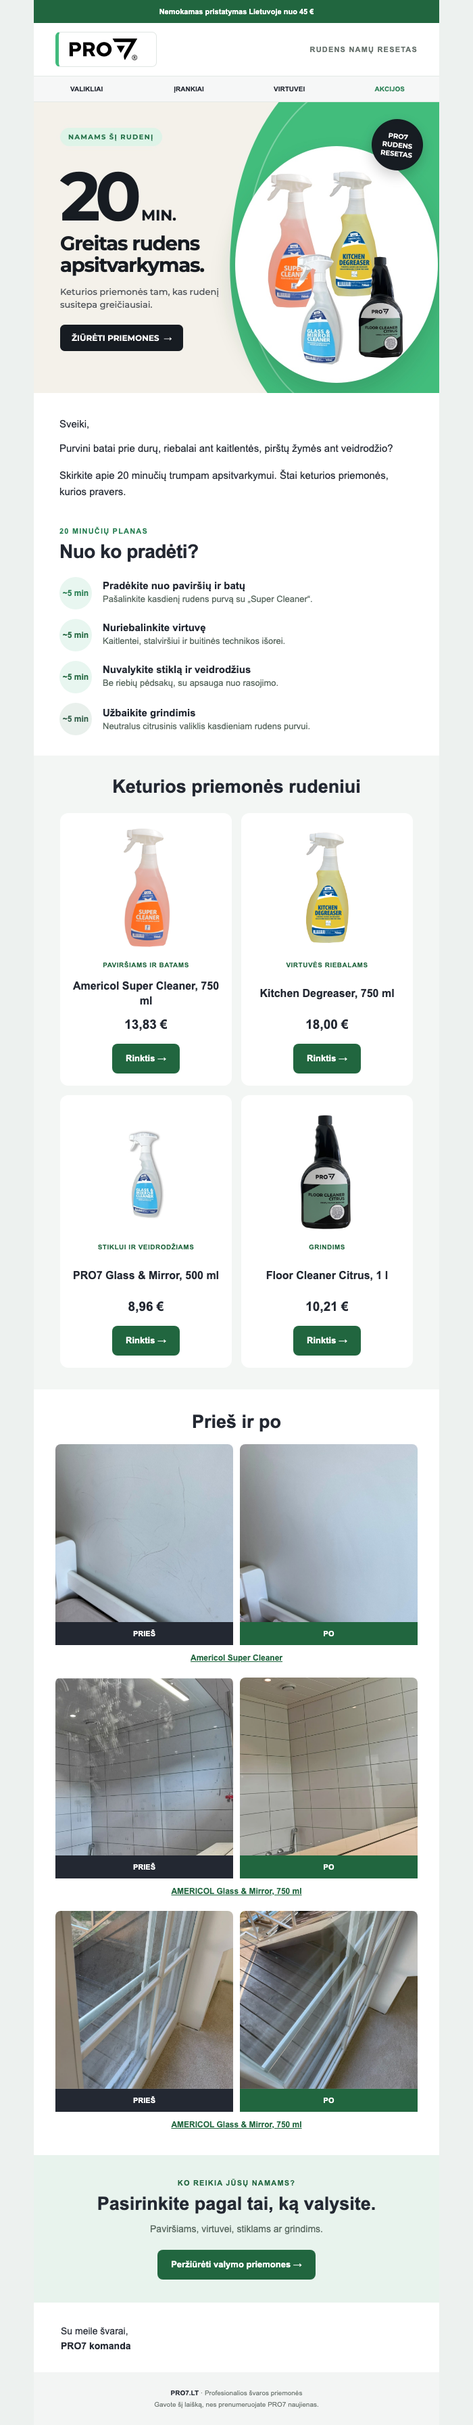
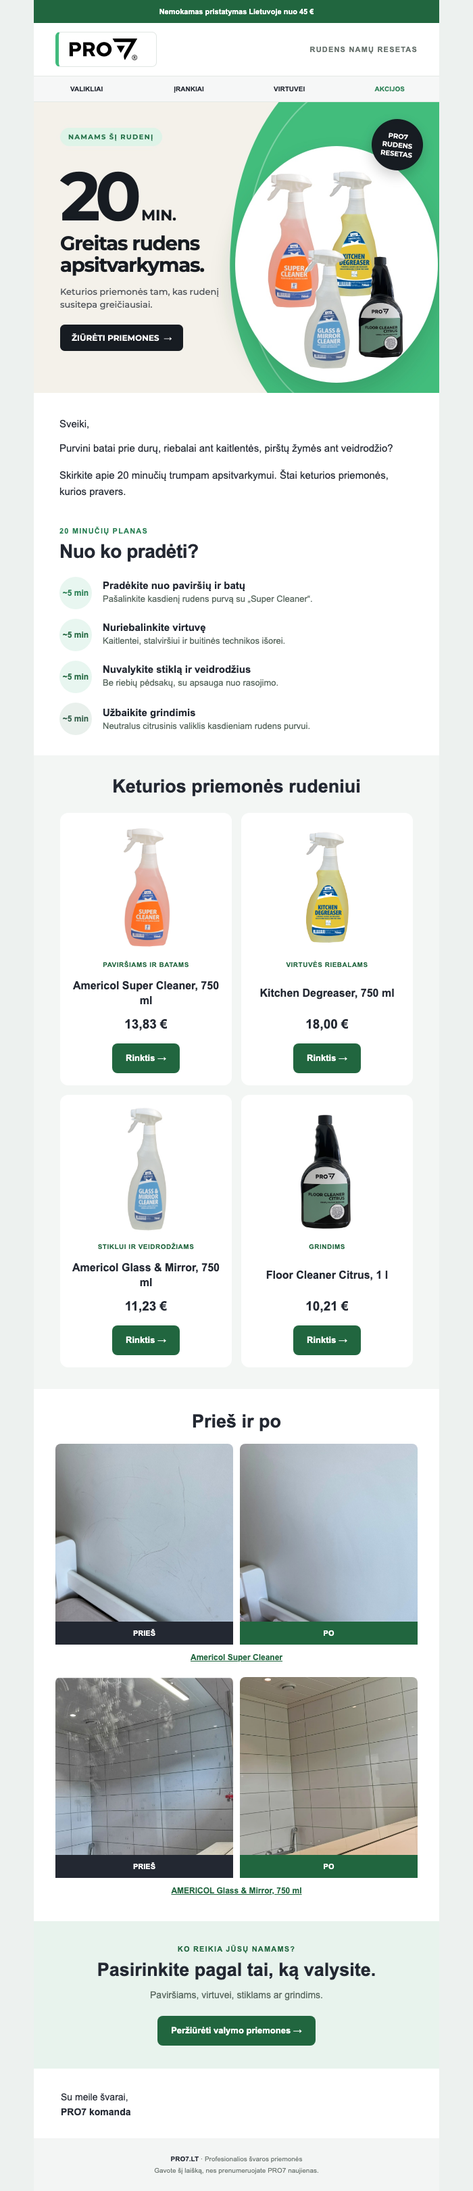
Apply PRO7 manager revisions to Glass 750 ml and proof gallery

diff --git a/nl2-20min-rudens-resetas/omnisend.html b/nl2-20min-rudens-resetas/omnisend.html
@@ -1,10 +1,10 @@
-<!-- PRO7 NL2. HTML input only. Paste omnisend-styles.css into Styles. Asset commit: 5192498d5fea85a1396dcabc810df333ac065828. -->
+<!-- PRO7 NL2. HTML input only. Paste omnisend-styles.css into Styles. Asset commit: fd5c6966be6053d51777ea0aad8c20beee034da1. -->
 <table role="presentation" class="pro7-email canvas" width="100%" cellpadding="0" cellspacing="0" border="0" bgcolor="#edf1ef" style="font-family:Montserrat,Arial,sans-serif;color:#232832;width:100%;max-width:600px;table-layout:fixed;margin:0 auto"><tr><td class="outer" align="center" style="font-family:Montserrat,Arial,sans-serif;padding:0">
     <table role="presentation" class="shell surface" width="100%" align="center" cellpadding="0" cellspacing="0" border="0" bgcolor="#ffffff" style="width:100%;max-width:600px;table-layout:fixed;margin:0 auto">
       <tr><td class="bar" bgcolor="#21663f" align="center" style="font-family:Montserrat,Arial,sans-serif;padding:9px 16px;font-family:Montserrat,Arial,sans-serif;font-size:11px;line-height:16px;font-weight:600;color:#ffffff">Nemokamas pristatymas Lietuvoje nuo 45 €</td></tr>
       <tr><td class="surface header" bgcolor="#ffffff" style="font-family:Montserrat,Arial,sans-serif;padding:13px 32px">
         <table cellpadding="0" cellspacing="0" border="0" role="presentation" width="100%"><tr>
-          <td style="font-family:Montserrat,Arial,sans-serif;"><a href="https://www.pro7.lt/"><img class="logo" src="https://raw.githubusercontent.com/elaiskai/pro7-email-assets/5192498d5fea85a1396dcabc810df333ac065828/nl2-20min-rudens-resetas/assets/pro7-logo-safe.png" width="150" alt="PRO7" style="display:block;border:0;max-width:100%;width:150px;max-width:100%;height:auto"></a></td>
+          <td style="font-family:Montserrat,Arial,sans-serif;"><a href="https://www.pro7.lt/"><img class="logo" src="https://raw.githubusercontent.com/elaiskai/pro7-email-assets/fd5c6966be6053d51777ea0aad8c20beee034da1/nl2-20min-rudens-resetas/assets/pro7-logo-safe.png" width="150" alt="PRO7" style="display:block;border:0;max-width:100%;width:150px;max-width:100%;height:auto"></a></td>
           <td class="header-label muted" align="right" style="font-family:Montserrat,Arial,sans-serif;font-family:Montserrat,Arial,sans-serif;font-size:11px;line-height:15px;font-weight:600;letter-spacing:1.2px;text-transform:uppercase;color:#65706b">Rudens namų resetas</td>
         </tr></table>
       </td></tr>
@@ -17,7 +17,7 @@
         </tr></table>
       </td></tr>
 
-      <tr><td style="font-family:Montserrat,Arial,sans-serif;"><a href="https://www.pro7.lt/svaros-prekes-valikliai/valymo-priemones"><img src="https://raw.githubusercontent.com/elaiskai/pro7-email-assets/5192498d5fea85a1396dcabc810df333ac065828/nl2-20min-rudens-resetas/assets/hero-20min.jpg" width="600" alt="20 min. greitam rudens apsitvarkymui. Super Cleaner, Kitchen Degreaser, Glass &amp; Mirror ir Floor Cleaner Citrus. Žiūrėti priemones." style="display:block;border:0;max-width:100%;width:100%;height:auto"></a></td></tr>
+      <tr><td style="font-family:Montserrat,Arial,sans-serif;"><a href="https://www.pro7.lt/svaros-prekes-valikliai/valymo-priemones"><img src="https://raw.githubusercontent.com/elaiskai/pro7-email-assets/fd5c6966be6053d51777ea0aad8c20beee034da1/nl2-20min-rudens-resetas/assets/hero-20min.jpg" width="600" alt="20 min. greitam rudens apsitvarkymui. Super Cleaner, Kitchen Degreaser, Glass &amp; Mirror ir Floor Cleaner Citrus. Žiūrėti priemones." style="display:block;border:0;max-width:100%;width:100%;height:auto"></a></td></tr>
 
       <tr><td class="pad" style="font-family:Montserrat,Arial,sans-serif;padding:34px 38px 22px;font-family:Montserrat,Arial,sans-serif;color:#232832">
         <p class="greeting" style="margin:0 0 12px;font-size:15px;line-height:24px">Sveiki,</p>
@@ -46,7 +46,7 @@
 <!--[if mso]><td width="268" valign="top" style="font-family:Montserrat,Arial,sans-serif;"><![endif]-->
 <table class="product-col" role="presentation" width="268" cellpadding="0" cellspacing="0" style="display:inline-table;vertical-align:top;width:100%;max-width:268px;table-layout:fixed"><tr><td class="product-gutter" style="font-family:Montserrat,Arial,sans-serif;padding:0 7px 14px">
 <table cellpadding="0" cellspacing="0" border="0" class="product-card" role="presentation" width="100%" bgcolor="#ffffff" style="border-radius:12px;background:#ffffff">
-<tr><td align="center" style="font-family:Montserrat,Arial,sans-serif;padding:18px 12px 8px"><a href="https://www.pro7.lt/svaros-prekes/113-americol-super-cleaner-0-75-l-universalus-valiklis-koncentratas"><img class="product-img" src="https://raw.githubusercontent.com/elaiskai/pro7-email-assets/5192498d5fea85a1396dcabc810df333ac065828/nl2-20min-rudens-resetas/assets/super-cleaner.png" width="185" height="185" alt="Americol Super Cleaner, 750 ml" style="display:block;border:0;max-width:100%;width:185px;height:185px;margin:0 auto;border-radius:8px"></a></td></tr>
+<tr><td align="center" style="font-family:Montserrat,Arial,sans-serif;padding:18px 12px 8px"><a href="https://www.pro7.lt/svaros-prekes/113-americol-super-cleaner-0-75-l-universalus-valiklis-koncentratas"><img class="product-img" src="https://raw.githubusercontent.com/elaiskai/pro7-email-assets/fd5c6966be6053d51777ea0aad8c20beee034da1/nl2-20min-rudens-resetas/assets/super-cleaner.png" width="185" height="185" alt="Americol Super Cleaner, 750 ml" style="display:block;border:0;max-width:100%;width:185px;height:185px;margin:0 auto;border-radius:8px"></a></td></tr>
 <tr><td align="center" height="28" style="font-family:Montserrat,Arial,sans-serif;height:28px;padding:0 12px;font-size:10px;line-height:14px;font-weight:700;letter-spacing:.5px;text-transform:uppercase;color:#21663f">Paviršiams ir batams</td></tr>
 <tr><td align="center" valign="middle" height="56" style="font-family:Montserrat,Arial,sans-serif;height:56px;padding:0 14px"><h3 style="margin:0;font-size:16px;line-height:22px;font-weight:700"><a href="https://www.pro7.lt/svaros-prekes/113-americol-super-cleaner-0-75-l-universalus-valiklis-koncentratas" style="text-decoration:none;color:#232832">Americol Super Cleaner, 750 ml</a></h3></td></tr>
 <tr><td align="center" height="36" style="font-family:Montserrat,Arial,sans-serif;height:36px;font-size:19px;line-height:26px;font-weight:700"><a href="https://www.pro7.lt/svaros-prekes/113-americol-super-cleaner-0-75-l-universalus-valiklis-koncentratas" style="text-decoration:none;color:#232832">13,83 €</a></td></tr>
@@ -57,7 +57,7 @@
 <!--[if mso]><td width="268" valign="top" style="font-family:Montserrat,Arial,sans-serif;"><![endif]-->
 <table class="product-col" role="presentation" width="268" cellpadding="0" cellspacing="0" style="display:inline-table;vertical-align:top;width:100%;max-width:268px;table-layout:fixed"><tr><td class="product-gutter" style="font-family:Montserrat,Arial,sans-serif;padding:0 7px 14px">
 <table cellpadding="0" cellspacing="0" border="0" class="product-card" role="presentation" width="100%" bgcolor="#ffffff" style="border-radius:12px;background:#ffffff">
-<tr><td align="center" style="font-family:Montserrat,Arial,sans-serif;padding:18px 12px 8px"><a href="https://www.pro7.lt/svaros-prekes/1416-americol-kitchen-degreaser-750-ml-virtuves-riebalu-salinimo-priemone"><img class="product-img" src="https://raw.githubusercontent.com/elaiskai/pro7-email-assets/5192498d5fea85a1396dcabc810df333ac065828/nl2-20min-rudens-resetas/assets/kitchen-degreaser.png" width="185" height="185" alt="Kitchen Degreaser, 750 ml" style="display:block;border:0;max-width:100%;width:185px;height:185px;margin:0 auto;border-radius:8px"></a></td></tr>
+<tr><td align="center" style="font-family:Montserrat,Arial,sans-serif;padding:18px 12px 8px"><a href="https://www.pro7.lt/svaros-prekes/1416-americol-kitchen-degreaser-750-ml-virtuves-riebalu-salinimo-priemone"><img class="product-img" src="https://raw.githubusercontent.com/elaiskai/pro7-email-assets/fd5c6966be6053d51777ea0aad8c20beee034da1/nl2-20min-rudens-resetas/assets/kitchen-degreaser.png" width="185" height="185" alt="Kitchen Degreaser, 750 ml" style="display:block;border:0;max-width:100%;width:185px;height:185px;margin:0 auto;border-radius:8px"></a></td></tr>
 <tr><td align="center" height="28" style="font-family:Montserrat,Arial,sans-serif;height:28px;padding:0 12px;font-size:10px;line-height:14px;font-weight:700;letter-spacing:.5px;text-transform:uppercase;color:#21663f">Virtuvės riebalams</td></tr>
 <tr><td align="center" valign="middle" height="56" style="font-family:Montserrat,Arial,sans-serif;height:56px;padding:0 14px"><h3 style="margin:0;font-size:16px;line-height:22px;font-weight:700"><a href="https://www.pro7.lt/svaros-prekes/1416-americol-kitchen-degreaser-750-ml-virtuves-riebalu-salinimo-priemone" style="text-decoration:none;color:#232832">Kitchen Degreaser, 750 ml</a></h3></td></tr>
 <tr><td align="center" height="36" style="font-family:Montserrat,Arial,sans-serif;height:36px;font-size:19px;line-height:26px;font-weight:700"><a href="https://www.pro7.lt/svaros-prekes/1416-americol-kitchen-degreaser-750-ml-virtuves-riebalu-salinimo-priemone" style="text-decoration:none;color:#232832">18,00 €</a></td></tr>
@@ -69,18 +69,18 @@
 <!--[if mso]><td width="268" valign="top" style="font-family:Montserrat,Arial,sans-serif;"><![endif]-->
 <table class="product-col" role="presentation" width="268" cellpadding="0" cellspacing="0" style="display:inline-table;vertical-align:top;width:100%;max-width:268px;table-layout:fixed"><tr><td class="product-gutter" style="font-family:Montserrat,Arial,sans-serif;padding:0 7px 14px">
 <table cellpadding="0" cellspacing="0" border="0" class="product-card" role="presentation" width="100%" bgcolor="#ffffff" style="border-radius:12px;background:#ffffff">
-<tr><td align="center" style="font-family:Montserrat,Arial,sans-serif;padding:18px 12px 8px"><a href="https://www.pro7.lt/svaros-prekes/1283-pro7-glass-and-mirror-cleaner-500-ml-stiklo-ir-veidrodziu-valiklis"><img class="product-img" src="https://raw.githubusercontent.com/elaiskai/pro7-email-assets/5192498d5fea85a1396dcabc810df333ac065828/nl2-20min-rudens-resetas/assets/glass-mirror-email.jpg" width="185" height="185" alt="PRO7 Glass &amp; Mirror, 500 ml" style="display:block;border:0;max-width:100%;width:185px;height:185px;margin:0 auto;border-radius:8px"></a></td></tr>
+<tr><td align="center" style="font-family:Montserrat,Arial,sans-serif;padding:18px 12px 8px"><a href="https://www.pro7.lt/svaros-prekes/114-americol-glass-and-mirror-cleanerstiklu-ir-veidrodziu-valiklis"><img class="product-img" src="https://raw.githubusercontent.com/elaiskai/pro7-email-assets/fd5c6966be6053d51777ea0aad8c20beee034da1/nl2-20min-rudens-resetas/assets/glass-mirror-750.png" width="185" height="185" alt="Americol Glass &amp; Mirror, 750 ml" style="display:block;border:0;max-width:100%;width:185px;height:185px;margin:0 auto;border-radius:8px"></a></td></tr>
 <tr><td align="center" height="28" style="font-family:Montserrat,Arial,sans-serif;height:28px;padding:0 12px;font-size:10px;line-height:14px;font-weight:700;letter-spacing:.5px;text-transform:uppercase;color:#21663f">Stiklui ir veidrodžiams</td></tr>
-<tr><td align="center" valign="middle" height="56" style="font-family:Montserrat,Arial,sans-serif;height:56px;padding:0 14px"><h3 style="margin:0;font-size:16px;line-height:22px;font-weight:700"><a href="https://www.pro7.lt/svaros-prekes/1283-pro7-glass-and-mirror-cleaner-500-ml-stiklo-ir-veidrodziu-valiklis" style="text-decoration:none;color:#232832">PRO7 Glass &amp; Mirror, 500 ml</a></h3></td></tr>
-<tr><td align="center" height="36" style="font-family:Montserrat,Arial,sans-serif;height:36px;font-size:19px;line-height:26px;font-weight:700"><a href="https://www.pro7.lt/svaros-prekes/1283-pro7-glass-and-mirror-cleaner-500-ml-stiklo-ir-veidrodziu-valiklis" style="text-decoration:none;color:#232832">8,96 €</a></td></tr>
-<tr><td style="font-family:Montserrat,Arial,sans-serif;padding:10px 10px 18px"><table cellpadding="0" cellspacing="0" border="0" role="presentation" align="center"><tr><td class="button" align="center" bgcolor="#21663f" style="font-family:Montserrat,Arial,sans-serif;border-radius:8px;background:#21663f;mso-padding-alt:13px 20px"><a href="https://www.pro7.lt/svaros-prekes/1283-pro7-glass-and-mirror-cleaner-500-ml-stiklo-ir-veidrodziu-valiklis" style="text-decoration:none;display:inline-block;padding:13px 20px;font-family:Montserrat,Arial,sans-serif;font-size:13px;line-height:18px;font-weight:700;color:#ffffff;text-decoration:none">Rinktis →</a></td></tr></table></td></tr>
+<tr><td align="center" valign="middle" height="56" style="font-family:Montserrat,Arial,sans-serif;height:56px;padding:0 14px"><h3 style="margin:0;font-size:16px;line-height:22px;font-weight:700"><a href="https://www.pro7.lt/svaros-prekes/114-americol-glass-and-mirror-cleanerstiklu-ir-veidrodziu-valiklis" style="text-decoration:none;color:#232832">Americol Glass &amp; Mirror, 750 ml</a></h3></td></tr>
+<tr><td align="center" height="36" style="font-family:Montserrat,Arial,sans-serif;height:36px;font-size:19px;line-height:26px;font-weight:700"><a href="https://www.pro7.lt/svaros-prekes/114-americol-glass-and-mirror-cleanerstiklu-ir-veidrodziu-valiklis" style="text-decoration:none;color:#232832">11,23 €</a></td></tr>
+<tr><td style="font-family:Montserrat,Arial,sans-serif;padding:10px 10px 18px"><table cellpadding="0" cellspacing="0" border="0" role="presentation" align="center"><tr><td class="button" align="center" bgcolor="#21663f" style="font-family:Montserrat,Arial,sans-serif;border-radius:8px;background:#21663f;mso-padding-alt:13px 20px"><a href="https://www.pro7.lt/svaros-prekes/114-americol-glass-and-mirror-cleanerstiklu-ir-veidrodziu-valiklis" style="text-decoration:none;display:inline-block;padding:13px 20px;font-family:Montserrat,Arial,sans-serif;font-size:13px;line-height:18px;font-weight:700;color:#ffffff;text-decoration:none">Rinktis →</a></td></tr></table></td></tr>
 </table>
 </td></tr></table>
 <!--[if mso]></td><![endif]-->
 <!--[if mso]><td width="268" valign="top" style="font-family:Montserrat,Arial,sans-serif;"><![endif]-->
 <table class="product-col" role="presentation" width="268" cellpadding="0" cellspacing="0" style="display:inline-table;vertical-align:top;width:100%;max-width:268px;table-layout:fixed"><tr><td class="product-gutter" style="font-family:Montserrat,Arial,sans-serif;padding:0 7px 14px">
 <table cellpadding="0" cellspacing="0" border="0" class="product-card" role="presentation" width="100%" bgcolor="#ffffff" style="border-radius:12px;background:#ffffff">
-<tr><td align="center" style="font-family:Montserrat,Arial,sans-serif;padding:18px 12px 8px"><a href="https://www.pro7.lt/svaros-prekes/1375-floor-cleaner-citrus-1-l-grindu-valiklis"><img class="product-img" src="https://raw.githubusercontent.com/elaiskai/pro7-email-assets/5192498d5fea85a1396dcabc810df333ac065828/nl2-20min-rudens-resetas/assets/floor-cleaner-citrus.png" width="185" height="185" alt="Floor Cleaner Citrus, 1 l" style="display:block;border:0;max-width:100%;width:185px;height:185px;margin:0 auto;border-radius:8px"></a></td></tr>
+<tr><td align="center" style="font-family:Montserrat,Arial,sans-serif;padding:18px 12px 8px"><a href="https://www.pro7.lt/svaros-prekes/1375-floor-cleaner-citrus-1-l-grindu-valiklis"><img class="product-img" src="https://raw.githubusercontent.com/elaiskai/pro7-email-assets/fd5c6966be6053d51777ea0aad8c20beee034da1/nl2-20min-rudens-resetas/assets/floor-cleaner-citrus.png" width="185" height="185" alt="Floor Cleaner Citrus, 1 l" style="display:block;border:0;max-width:100%;width:185px;height:185px;margin:0 auto;border-radius:8px"></a></td></tr>
 <tr><td align="center" height="28" style="font-family:Montserrat,Arial,sans-serif;height:28px;padding:0 12px;font-size:10px;line-height:14px;font-weight:700;letter-spacing:.5px;text-transform:uppercase;color:#21663f">Grindims</td></tr>
 <tr><td align="center" valign="middle" height="56" style="font-family:Montserrat,Arial,sans-serif;height:56px;padding:0 14px"><h3 style="margin:0;font-size:16px;line-height:22px;font-weight:700"><a href="https://www.pro7.lt/svaros-prekes/1375-floor-cleaner-citrus-1-l-grindu-valiklis" style="text-decoration:none;color:#232832">Floor Cleaner Citrus, 1 l</a></h3></td></tr>
 <tr><td align="center" height="36" style="font-family:Montserrat,Arial,sans-serif;height:36px;font-size:19px;line-height:26px;font-weight:700"><a href="https://www.pro7.lt/svaros-prekes/1375-floor-cleaner-citrus-1-l-grindu-valiklis" style="text-decoration:none;color:#232832">10,21 €</a></td></tr>
@@ -93,9 +93,8 @@
 </td></tr>
 <tr><td class="pad surface" bgcolor="#ffffff" style="font-family:Montserrat,Arial,sans-serif;padding:32px;color:#232832">
 <h2 style="margin:0 0 8px;font-size:27px;line-height:33px;font-weight:700;text-align:center">Prieš ir po</h2>
-<table cellpadding="0" cellspacing="0" border="0" class="proof" role="presentation" width="100%" style="table-layout:fixed;margin-top:16px"><tr><td width="50%" valign="top" style="font-family:Montserrat,Arial,sans-serif;padding:0 5px 0 0"><a href="https://www.pro7.lt/galerija"><img src="https://raw.githubusercontent.com/elaiskai/pro7-email-assets/5192498d5fea85a1396dcabc810df333ac065828/nl2-20min-rudens-resetas/assets/before-super-cleaner-email.jpg" width="258" alt="Siena prieš valymą, Americol Super Cleaner" style="display:block;border:0;max-width:100%;width:100%;height:auto;border-radius:8px 8px 0 0"></a><p style="margin:0;padding:9px;background:#232832;color:#ffffff;text-align:center;font-size:11px;line-height:16px;font-weight:700">PRIEŠ</p></td><td width="50%" valign="top" style="font-family:Montserrat,Arial,sans-serif;padding:0 0 0 5px"><a href="https://www.pro7.lt/galerija"><img src="https://raw.githubusercontent.com/elaiskai/pro7-email-assets/5192498d5fea85a1396dcabc810df333ac065828/nl2-20min-rudens-resetas/assets/after-super-cleaner-email.jpg" width="258" alt="Siena po valymo, Americol Super Cleaner" style="display:block;border:0;max-width:100%;width:100%;height:auto;border-radius:8px 8px 0 0"></a><p style="margin:0;padding:9px;background:#21663f;color:#ffffff;text-align:center;font-size:11px;line-height:16px;font-weight:700">PO</p></td></tr><tr><td colspan="2" align="center" style="font-family:Montserrat,Arial,sans-serif;padding:10px 0 4px;font-size:12px;line-height:18px;font-weight:600"><a href="https://www.pro7.lt/svaros-prekes/113-americol-super-cleaner-0-75-l-universalus-valiklis-koncentratas" style="text-decoration:none;color:#21663f;text-decoration:underline">Americol Super Cleaner</a></td></tr></table>
-<table cellpadding="0" cellspacing="0" border="0" class="proof" role="presentation" width="100%" style="table-layout:fixed;margin-top:16px"><tr><td width="50%" valign="top" style="font-family:Montserrat,Arial,sans-serif;padding:0 5px 0 0"><a href="https://www.pro7.lt/galerija"><img src="https://raw.githubusercontent.com/elaiskai/pro7-email-assets/5192498d5fea85a1396dcabc810df333ac065828/nl2-20min-rudens-resetas/assets/pries-pro7-valymo-priemones-43f9a.jpg" width="258" alt="Veidrodis prieš valymą, AMERICOL Glass &amp; Mirror, 750 ml" style="display:block;border:0;max-width:100%;width:100%;height:auto;border-radius:8px 8px 0 0"></a><p style="margin:0;padding:9px;background:#232832;color:#ffffff;text-align:center;font-size:11px;line-height:16px;font-weight:700">PRIEŠ</p></td><td width="50%" valign="top" style="font-family:Montserrat,Arial,sans-serif;padding:0 0 0 5px"><a href="https://www.pro7.lt/galerija"><img src="https://raw.githubusercontent.com/elaiskai/pro7-email-assets/5192498d5fea85a1396dcabc810df333ac065828/nl2-20min-rudens-resetas/assets/po-pro7-valymo-priemones-3bbdc.jpg" width="258" alt="Veidrodis po valymo, AMERICOL Glass &amp; Mirror, 750 ml" style="display:block;border:0;max-width:100%;width:100%;height:auto;border-radius:8px 8px 0 0"></a><p style="margin:0;padding:9px;background:#21663f;color:#ffffff;text-align:center;font-size:11px;line-height:16px;font-weight:700">PO</p></td></tr><tr><td colspan="2" align="center" style="font-family:Montserrat,Arial,sans-serif;padding:10px 0 4px;font-size:12px;line-height:18px;font-weight:600"><a href="https://www.pro7.lt/svaros-prekes/114-americol-glass-and-mirror-cleanerstiklu-ir-veidrodziu-valiklis" style="text-decoration:none;color:#21663f;text-decoration:underline">AMERICOL Glass &amp; Mirror, 750 ml</a></td></tr></table>
-<table cellpadding="0" cellspacing="0" border="0" class="proof" role="presentation" width="100%" style="table-layout:fixed;margin-top:16px"><tr><td width="50%" valign="top" style="font-family:Montserrat,Arial,sans-serif;padding:0 5px 0 0"><a href="https://www.pro7.lt/galerija"><img src="https://raw.githubusercontent.com/elaiskai/pro7-email-assets/5192498d5fea85a1396dcabc810df333ac065828/nl2-20min-rudens-resetas/assets/pries-pro7-valymo-priemones-3d3e8.jpg" width="258" alt="Langas prieš valymą, AMERICOL Glass &amp; Mirror, 750 ml" style="display:block;border:0;max-width:100%;width:100%;height:auto;border-radius:8px 8px 0 0"></a><p style="margin:0;padding:9px;background:#232832;color:#ffffff;text-align:center;font-size:11px;line-height:16px;font-weight:700">PRIEŠ</p></td><td width="50%" valign="top" style="font-family:Montserrat,Arial,sans-serif;padding:0 0 0 5px"><a href="https://www.pro7.lt/galerija"><img src="https://raw.githubusercontent.com/elaiskai/pro7-email-assets/5192498d5fea85a1396dcabc810df333ac065828/nl2-20min-rudens-resetas/assets/po-pro7-valymo-priemones-5f61f.jpg" width="258" alt="Langas po valymo, AMERICOL Glass &amp; Mirror, 750 ml" style="display:block;border:0;max-width:100%;width:100%;height:auto;border-radius:8px 8px 0 0"></a><p style="margin:0;padding:9px;background:#21663f;color:#ffffff;text-align:center;font-size:11px;line-height:16px;font-weight:700">PO</p></td></tr><tr><td colspan="2" align="center" style="font-family:Montserrat,Arial,sans-serif;padding:10px 0 4px;font-size:12px;line-height:18px;font-weight:600"><a href="https://www.pro7.lt/svaros-prekes/114-americol-glass-and-mirror-cleanerstiklu-ir-veidrodziu-valiklis" style="text-decoration:none;color:#21663f;text-decoration:underline">AMERICOL Glass &amp; Mirror, 750 ml</a></td></tr></table>
+<table cellpadding="0" cellspacing="0" border="0" class="proof" role="presentation" width="100%" style="table-layout:fixed;margin-top:16px"><tr><td width="50%" valign="top" style="font-family:Montserrat,Arial,sans-serif;padding:0 5px 0 0"><a href="https://www.pro7.lt/galerija"><img src="https://raw.githubusercontent.com/elaiskai/pro7-email-assets/fd5c6966be6053d51777ea0aad8c20beee034da1/nl2-20min-rudens-resetas/assets/before-super-cleaner-email.jpg" width="258" alt="Siena prieš valymą, Americol Super Cleaner" style="display:block;border:0;max-width:100%;width:100%;height:auto;border-radius:8px 8px 0 0"></a><p style="margin:0;padding:9px;background:#232832;color:#ffffff;text-align:center;font-size:11px;line-height:16px;font-weight:700">PRIEŠ</p></td><td width="50%" valign="top" style="font-family:Montserrat,Arial,sans-serif;padding:0 0 0 5px"><a href="https://www.pro7.lt/galerija"><img src="https://raw.githubusercontent.com/elaiskai/pro7-email-assets/fd5c6966be6053d51777ea0aad8c20beee034da1/nl2-20min-rudens-resetas/assets/after-super-cleaner-email.jpg" width="258" alt="Siena po valymo, Americol Super Cleaner" style="display:block;border:0;max-width:100%;width:100%;height:auto;border-radius:8px 8px 0 0"></a><p style="margin:0;padding:9px;background:#21663f;color:#ffffff;text-align:center;font-size:11px;line-height:16px;font-weight:700">PO</p></td></tr><tr><td colspan="2" align="center" style="font-family:Montserrat,Arial,sans-serif;padding:10px 0 4px;font-size:12px;line-height:18px;font-weight:600"><a href="https://www.pro7.lt/svaros-prekes/113-americol-super-cleaner-0-75-l-universalus-valiklis-koncentratas" style="text-decoration:none;color:#21663f;text-decoration:underline">Americol Super Cleaner</a></td></tr></table>
+<table cellpadding="0" cellspacing="0" border="0" class="proof" role="presentation" width="100%" style="table-layout:fixed;margin-top:16px"><tr><td width="50%" valign="top" style="font-family:Montserrat,Arial,sans-serif;padding:0 5px 0 0"><a href="https://www.pro7.lt/galerija"><img src="https://raw.githubusercontent.com/elaiskai/pro7-email-assets/fd5c6966be6053d51777ea0aad8c20beee034da1/nl2-20min-rudens-resetas/assets/pries-pro7-valymo-priemones-43f9a.jpg" width="258" alt="Veidrodis prieš valymą, AMERICOL Glass &amp; Mirror, 750 ml" style="display:block;border:0;max-width:100%;width:100%;height:auto;border-radius:8px 8px 0 0"></a><p style="margin:0;padding:9px;background:#232832;color:#ffffff;text-align:center;font-size:11px;line-height:16px;font-weight:700">PRIEŠ</p></td><td width="50%" valign="top" style="font-family:Montserrat,Arial,sans-serif;padding:0 0 0 5px"><a href="https://www.pro7.lt/galerija"><img src="https://raw.githubusercontent.com/elaiskai/pro7-email-assets/fd5c6966be6053d51777ea0aad8c20beee034da1/nl2-20min-rudens-resetas/assets/po-pro7-valymo-priemones-3bbdc.jpg" width="258" alt="Veidrodis po valymo, AMERICOL Glass &amp; Mirror, 750 ml" style="display:block;border:0;max-width:100%;width:100%;height:auto;border-radius:8px 8px 0 0"></a><p style="margin:0;padding:9px;background:#21663f;color:#ffffff;text-align:center;font-size:11px;line-height:16px;font-weight:700">PO</p></td></tr><tr><td colspan="2" align="center" style="font-family:Montserrat,Arial,sans-serif;padding:10px 0 4px;font-size:12px;line-height:18px;font-weight:600"><a href="https://www.pro7.lt/svaros-prekes/114-americol-glass-and-mirror-cleanerstiklu-ir-veidrodziu-valiklis" style="text-decoration:none;color:#21663f;text-decoration:underline">AMERICOL Glass &amp; Mirror, 750 ml</a></td></tr></table>
 </td></tr>
       <tr><td class="pad panel" bgcolor="#e8f3ed" align="center" style="font-family:Montserrat,Arial,sans-serif;padding:34px 38px;font-family:Montserrat,Arial,sans-serif;color:#232832">
         <p style="margin:0;font-size:11px;line-height:14px;font-weight:700;letter-spacing:1.2px;color:#21663f;text-transform:uppercase">Ko reikia Jūsų namams?</p>

diff --git a/nl2-20min-rudens-resetas/index.html b/nl2-20min-rudens-resetas/index.html
@@ -128,11 +128,11 @@
 <!--[if mso]><td width="268" valign="top"><![endif]-->
 <table class="product-col" role="presentation" width="268" cellpadding="0" cellspacing="0" style="display:inline-table;vertical-align:top;width:100%;max-width:268px;table-layout:fixed"><tr><td class="product-gutter" style="padding:0 7px 14px">
 <table cellpadding="0" cellspacing="0" border="0" class="product-card" role="presentation" width="100%" bgcolor="#ffffff" style="border-radius:12px;background:#ffffff">
-<tr><td align="center" style="padding:18px 12px 8px"><a href="https://www.pro7.lt/svaros-prekes/1283-pro7-glass-and-mirror-cleaner-500-ml-stiklo-ir-veidrodziu-valiklis"><img class="product-img" src="assets/glass-mirror-email.jpg" width="185" height="185" alt="PRO7 Glass &amp; Mirror, 500 ml" style="display:block;border:0;max-width:100%;width:185px;height:185px;margin:0 auto;border-radius:8px"></a></td></tr>
+<tr><td align="center" style="padding:18px 12px 8px"><a href="https://www.pro7.lt/svaros-prekes/114-americol-glass-and-mirror-cleanerstiklu-ir-veidrodziu-valiklis"><img class="product-img" src="assets/glass-mirror-750.png" width="185" height="185" alt="Americol Glass &amp; Mirror, 750 ml" style="display:block;border:0;max-width:100%;width:185px;height:185px;margin:0 auto;border-radius:8px"></a></td></tr>
 <tr><td align="center" height="28" style="height:28px;padding:0 12px;font-size:10px;line-height:14px;font-weight:700;letter-spacing:.5px;text-transform:uppercase;color:#21663f">Stiklui ir veidrodžiams</td></tr>
-<tr><td align="center" valign="middle" height="56" style="height:56px;padding:0 14px"><h3 style="margin:0;font-size:16px;line-height:22px;font-weight:700"><a href="https://www.pro7.lt/svaros-prekes/1283-pro7-glass-and-mirror-cleaner-500-ml-stiklo-ir-veidrodziu-valiklis" style="text-decoration:none;color:#232832">PRO7 Glass &amp; Mirror, 500 ml</a></h3></td></tr>
-<tr><td align="center" height="36" style="height:36px;font-size:19px;line-height:26px;font-weight:700"><a href="https://www.pro7.lt/svaros-prekes/1283-pro7-glass-and-mirror-cleaner-500-ml-stiklo-ir-veidrodziu-valiklis" style="text-decoration:none;color:#232832">8,96 €</a></td></tr>
-<tr><td style="padding:10px 10px 18px"><table cellpadding="0" cellspacing="0" border="0" role="presentation" align="center"><tr><td class="button" align="center" bgcolor="#21663f" style="border-radius:8px;background:#21663f;mso-padding-alt:13px 20px"><a href="https://www.pro7.lt/svaros-prekes/1283-pro7-glass-and-mirror-cleaner-500-ml-stiklo-ir-veidrodziu-valiklis" style="text-decoration:none;display:inline-block;padding:13px 20px;font-family:Montserrat,Arial,sans-serif;font-size:13px;line-height:18px;font-weight:700;color:#ffffff;text-decoration:none">Rinktis →</a></td></tr></table></td></tr>
+<tr><td align="center" valign="middle" height="56" style="height:56px;padding:0 14px"><h3 style="margin:0;font-size:16px;line-height:22px;font-weight:700"><a href="https://www.pro7.lt/svaros-prekes/114-americol-glass-and-mirror-cleanerstiklu-ir-veidrodziu-valiklis" style="text-decoration:none;color:#232832">Americol Glass &amp; Mirror, 750 ml</a></h3></td></tr>
+<tr><td align="center" height="36" style="height:36px;font-size:19px;line-height:26px;font-weight:700"><a href="https://www.pro7.lt/svaros-prekes/114-americol-glass-and-mirror-cleanerstiklu-ir-veidrodziu-valiklis" style="text-decoration:none;color:#232832">11,23 €</a></td></tr>
+<tr><td style="padding:10px 10px 18px"><table cellpadding="0" cellspacing="0" border="0" role="presentation" align="center"><tr><td class="button" align="center" bgcolor="#21663f" style="border-radius:8px;background:#21663f;mso-padding-alt:13px 20px"><a href="https://www.pro7.lt/svaros-prekes/114-americol-glass-and-mirror-cleanerstiklu-ir-veidrodziu-valiklis" style="text-decoration:none;display:inline-block;padding:13px 20px;font-family:Montserrat,Arial,sans-serif;font-size:13px;line-height:18px;font-weight:700;color:#ffffff;text-decoration:none">Rinktis →</a></td></tr></table></td></tr>
 </table>
 </td></tr></table>
 <!--[if mso]></td><![endif]-->
@@ -154,7 +154,6 @@
 <h2 style="margin:0 0 8px;font-size:27px;line-height:33px;font-weight:700;text-align:center">Prieš ir po</h2>
 <table cellpadding="0" cellspacing="0" border="0" class="proof" role="presentation" width="100%" style="table-layout:fixed;margin-top:16px"><tr><td width="50%" valign="top" style="padding:0 5px 0 0"><a href="https://www.pro7.lt/galerija"><img src="assets/before-super-cleaner-email.jpg" width="258" alt="Siena prieš valymą, Americol Super Cleaner" style="display:block;border:0;max-width:100%;width:100%;height:auto;border-radius:8px 8px 0 0"></a><p style="margin:0;padding:9px;background:#232832;color:#ffffff;text-align:center;font-size:11px;line-height:16px;font-weight:700">PRIEŠ</p></td><td width="50%" valign="top" style="padding:0 0 0 5px"><a href="https://www.pro7.lt/galerija"><img src="assets/after-super-cleaner-email.jpg" width="258" alt="Siena po valymo, Americol Super Cleaner" style="display:block;border:0;max-width:100%;width:100%;height:auto;border-radius:8px 8px 0 0"></a><p style="margin:0;padding:9px;background:#21663f;color:#ffffff;text-align:center;font-size:11px;line-height:16px;font-weight:700">PO</p></td></tr><tr><td colspan="2" align="center" style="padding:10px 0 4px;font-size:12px;line-height:18px;font-weight:600"><a href="https://www.pro7.lt/svaros-prekes/113-americol-super-cleaner-0-75-l-universalus-valiklis-koncentratas" style="text-decoration:none;color:#21663f;text-decoration:underline">Americol Super Cleaner</a></td></tr></table>
 <table cellpadding="0" cellspacing="0" border="0" class="proof" role="presentation" width="100%" style="table-layout:fixed;margin-top:16px"><tr><td width="50%" valign="top" style="padding:0 5px 0 0"><a href="https://www.pro7.lt/galerija"><img src="assets/pries-pro7-valymo-priemones-43f9a.jpg" width="258" alt="Veidrodis prieš valymą, AMERICOL Glass &amp; Mirror, 750 ml" style="display:block;border:0;max-width:100%;width:100%;height:auto;border-radius:8px 8px 0 0"></a><p style="margin:0;padding:9px;background:#232832;color:#ffffff;text-align:center;font-size:11px;line-height:16px;font-weight:700">PRIEŠ</p></td><td width="50%" valign="top" style="padding:0 0 0 5px"><a href="https://www.pro7.lt/galerija"><img src="assets/po-pro7-valymo-priemones-3bbdc.jpg" width="258" alt="Veidrodis po valymo, AMERICOL Glass &amp; Mirror, 750 ml" style="display:block;border:0;max-width:100%;width:100%;height:auto;border-radius:8px 8px 0 0"></a><p style="margin:0;padding:9px;background:#21663f;color:#ffffff;text-align:center;font-size:11px;line-height:16px;font-weight:700">PO</p></td></tr><tr><td colspan="2" align="center" style="padding:10px 0 4px;font-size:12px;line-height:18px;font-weight:600"><a href="https://www.pro7.lt/svaros-prekes/114-americol-glass-and-mirror-cleanerstiklu-ir-veidrodziu-valiklis" style="text-decoration:none;color:#21663f;text-decoration:underline">AMERICOL Glass &amp; Mirror, 750 ml</a></td></tr></table>
-<table cellpadding="0" cellspacing="0" border="0" class="proof" role="presentation" width="100%" style="table-layout:fixed;margin-top:16px"><tr><td width="50%" valign="top" style="padding:0 5px 0 0"><a href="https://www.pro7.lt/galerija"><img src="assets/pries-pro7-valymo-priemones-3d3e8.jpg" width="258" alt="Langas prieš valymą, AMERICOL Glass &amp; Mirror, 750 ml" style="display:block;border:0;max-width:100%;width:100%;height:auto;border-radius:8px 8px 0 0"></a><p style="margin:0;padding:9px;background:#232832;color:#ffffff;text-align:center;font-size:11px;line-height:16px;font-weight:700">PRIEŠ</p></td><td width="50%" valign="top" style="padding:0 0 0 5px"><a href="https://www.pro7.lt/galerija"><img src="assets/po-pro7-valymo-priemones-5f61f.jpg" width="258" alt="Langas po valymo, AMERICOL Glass &amp; Mirror, 750 ml" style="display:block;border:0;max-width:100%;width:100%;height:auto;border-radius:8px 8px 0 0"></a><p style="margin:0;padding:9px;background:#21663f;color:#ffffff;text-align:center;font-size:11px;line-height:16px;font-weight:700">PO</p></td></tr><tr><td colspan="2" align="center" style="padding:10px 0 4px;font-size:12px;line-height:18px;font-weight:600"><a href="https://www.pro7.lt/svaros-prekes/114-americol-glass-and-mirror-cleanerstiklu-ir-veidrodziu-valiklis" style="text-decoration:none;color:#21663f;text-decoration:underline">AMERICOL Glass &amp; Mirror, 750 ml</a></td></tr></table>
 </td></tr>
       <tr><td class="pad panel" bgcolor="#e8f3ed" align="center" style="padding:34px 38px;font-family:Montserrat,Arial,sans-serif;color:#232832">
         <p style="margin:0;font-size:11px;line-height:14px;font-weight:700;letter-spacing:1.2px;color:#21663f;text-transform:uppercase">Ko reikia Jūsų namams?</p>

diff --git a/nl2-20min-rudens-resetas/hero-build.html b/nl2-20min-rudens-resetas/hero-build.html
@@ -152,11 +152,11 @@
         clip-path: polygon(43% 7%,48% 6.5%,53% 7%,54% 8%,54% 14%,55% 16%,57% 20%,59% 29%,61% 45%,65% 49%,68% 54%,69% 61%,69% 89%,68% 94%,65% 96%,50% 97%,35% 96%,31% 94%,29% 91%,29% 63%,30% 57%,33% 51%,39% 45%,40% 42%,40% 36%,41% 33%,40% 30%,41% 26%,40% 23%,41% 21%,41% 18%,43% 15%);
       }
       .p4 {
-        width: 245px;
-        left: 4px;
-        top: 112px;
+        width: 220px;
+        left: 25px;
+        top: 151px;
         z-index: 4;
-        clip-path: polygon(36% 22%,40% 20%,49% 19.5%,55% 21%,58% 24%,56% 27%,53% 29%,53% 34%,54% 39%,58% 48%,62% 57%,64% 66%,63% 76%,61% 84%,57% 86%,44% 85%,41% 83%,39% 77%,37% 69%,38% 61%,40% 54%,43% 47%,45% 42%,46% 37%,46% 32%,47% 29%,45% 28%,42% 32%,40% 36%,37% 39%,35% 39%,37% 35%,39% 30%,39% 28%,36% 27%);
+        clip-path: polygon(38% 2%,48% 1%,56% 2%,61% 5%,62.5% 8%,62% 10%,57% 12%,56% 14%,57% 24%,58% 32%,60% 44%,63% 56%,65% 69%,66% 78%,65% 88%,63% 96%,60% 98%,48% 98.5%,39% 97%,37% 94%,35.5% 87%,35% 78%,35.5% 68%,37% 60%,40% 52%,42% 45%,43% 38%,42.5% 37%,43% 35%,46% 29%,47% 24%,47.5% 20%,48% 14%,48% 13%,44% 12%,42% 14%,40% 18%,37% 20%,35% 20%,36% 17%,38% 14%,40% 11%,41% 10%,38% 9%,38% 8%,41% 8%,38% 7%);
       }
       .badge {
         position: absolute;
@@ -199,7 +199,7 @@
           class="product p2"
           src="assets/kitchen-degreaser.png"
         /><img class="product p3" src="assets/floor-cleaner-citrus.png" />
-        <img class="product p4" src="assets/glass-mirror.webp" />
+        <img class="product p4" src="assets/glass-mirror-750.png" alt="Americol Glass &amp; Mirror, 750 ml" />
       </div>
       <div class="badge">PRO7<br />RUDENS<br />RESETAS</div>
     </div>

diff --git a/nl2-20min-rudens-resetas/CAMPAIGN.md b/nl2-20min-rudens-resetas/CAMPAIGN.md
@@ -39,7 +39,7 @@ Patikrinta pro7.lt 2026-09-08:
 
 - Americol Super Cleaner, 750 ml, 13,83 €.
 - Americol Kitchen Degreaser, 750 ml, 18,00 €.
-- PRO7 Glass & Mirror Cleaner, 500 ml, 8,96 €.
+- Americol Glass & Mirror Cleaner, 750 ml, 11,23 €. Šis variantas papildomai patikrintas pro7.lt 2026-09-09, produkto ID 114, prekės kodas 926-00075.
 - Floor Cleaner Citrus, 1 l, 10,21 €.
 - Nemokamas pristatymas Lietuvoje nuo 45 €.
 
@@ -53,9 +53,12 @@ Visos poros iš https://www.pro7.lt/galerija, susiejimai patikrinti tos pačios 
 | --- | --- | --- | --- |
 | Siena | pries-pro7-valymo-priemones-0f2ed.png | po-pro7-valymo-priemones-48455.png | Americol Super Cleaner, ID 113 |
 | Veidrodis | pries-pro7-valymo-priemones-43f9a.jpg | po-pro7-valymo-priemones-3bbdc.jpg | AMERICOL Glass & Mirror, 750 ml, ID 114 |
-| Langas | pries-pro7-valymo-priemones-3d3e8.jpg | po-pro7-valymo-priemones-5f61f.jpg | AMERICOL Glass & Mirror, 750 ml, ID 114 |
 
-Paskutinės dvi poros nėra tiesioginis atskiro PRO7 500 ml SKU (ID 1283) testas. Laiške įvardytas tikslus AMERICOL variantas, užrašas veda į ID 114. Nuotraukos veda į galeriją. Vaizdai nekeisti, išskyrus sienos poros dydžio ir failo formato optimizavimą.
+Palikta po vieną porą dviem skirtingiems produktams: Super Cleaner ir Americol Glass & Mirror 750 ml. Pasikartojanti lango pora pašalinta iš laiško, jos šaltiniai liko assets archyve. Abiejų porų užrašai veda į tikslų susietą produktą, nuotraukos į galeriją. Vaizdai nekeisti, išskyrus sienos poros dydžio ir failo formato optimizavimą.
+
+Aprasojusio / neaprasojusio veidrodžio tikros eksperimento nuotraukos dar laukiama iš Aistės. Esama veidrodžio pora rodo valymą, ne kontroliuojamą rasojimo eksperimentą. Dirbtinis produkto bandymo rezultatas negeneruotas ir neįdėtas. Subject pagal kliento pageidavimą šiame pakeitime nekeistas.
+
+750 ml buteliuko šaltinis: https://www.pro7.lt/foto/l-americol-stiklo-ir-veidrodziu-valiklis-glass-and-mirror-cleaner-0-75l-e0f23.png . Kortelėje naudojamas originalus failas, hero kontūras išskirtas CSS, nekeičiant etiketės.
 
 Hero sudėtas iš keturių autentiškų produktų nuotraukų. Butelių kontūrai apkirpti CSS maskėmis hero šaltinyje, spalvos ir etiketės negeneruotos. Rastriniai AI vaizdai nenaudoti.
 

diff --git a/nl2-20min-rudens-resetas/QA.md b/nl2-20min-rudens-resetas/QA.md
@@ -4,12 +4,13 @@ Maketas ir eksportas pakartotinai patikrinti 2026-09-09. Omnisend Custom HTML bl
 
 ## Eksportas
 
-- Paveikslėlių commit: `5192498d5fea85a1396dcabc810df333ac065828`.
-- 12 paveikslėlių nuorodų, visos HTTPS, visos HTTP 200 ir Content-Type image/jpeg arba image/png.
-- Bendras paveikslėlių dydis 924 496 baitai.
+- Paveikslėlių commit: `fd5c6966be6053d51777ea0aad8c20beee034da1`.
+- 10 paveikslėlių nuorodų, visos HTTPS; tikrinamas jų užsikrovimas iš viešų GitHub adresų.
+- Bendras laiške naudojamų paveikslėlių dydis 761 308 baitai.
 - HTML ir CSS pateikiami atskirai. Eksporto HTML neturi style žymų, kritinis pločio valdymas yra inline.
-- 12 unikalių PRO7 nuorodų, visos HTTP 200 patikros 2026-09-08 metu. Patikrintos ir puslapių h1 antraštės. Šios pataisos nuorodų nekeičia.
-- Produktų ID: 113, 1416, 1283, 1375. Galerijos AMERICOL Glass & Mirror užrašai veda į ID 114.
+- 11 unikalių PRO7 nuorodų. Jos buvo ankstesnėje patikrintoje nuorodų aibėje; ID 114 puslapis papildomai patikrintas 2026-09-09.
+- Produktų ID: 113, 1416, 114, 1375. Glass & Mirror pakeistas į Americol 750 ml, 11,23 €. Nuotrauka, pavadinimas, kaina ir CTA veda į ID 114.
+- Dvi prieš / po poros dviem skirtingiems produktams. Nebėra antro pasikartojančio stiklo valymo pavyzdžio. Tikras rasojimo eksperimentas dar negautas ir nepateikiamas kaip įvykęs.
 - Galerijoje po vieną nuorodą ant kiekvieno paveikslėlio, nėra nuorodomis apgaubtų lentelių.
 - Produktų nuotraukos, pavadinimai, kainos ir mygtukai yra paspaudžiami.
 - Eksporte nėra vietinių paveikslėlių adresų, DOCTYPE, head, body, script žymų ar mūsų unsubscribe nuorodos.
